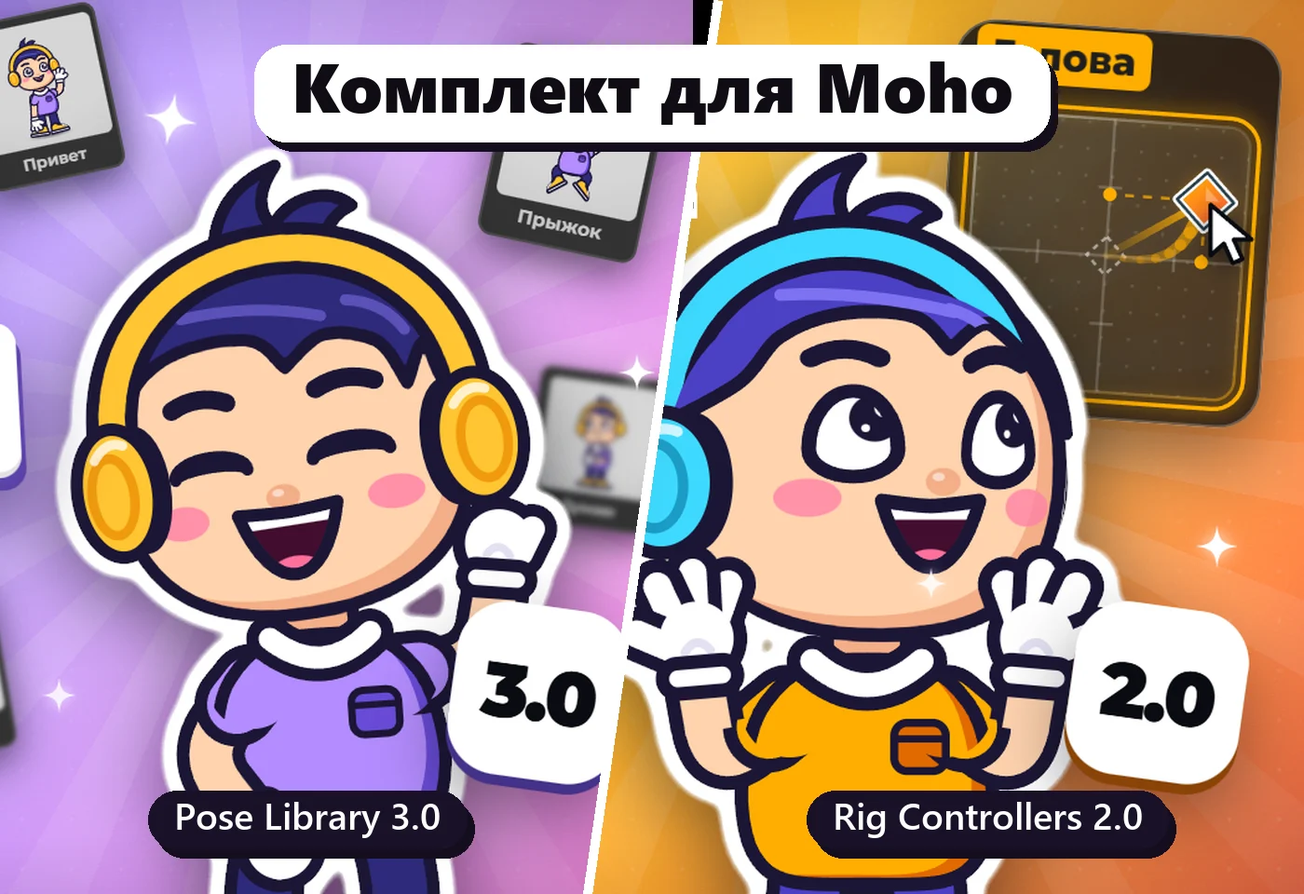
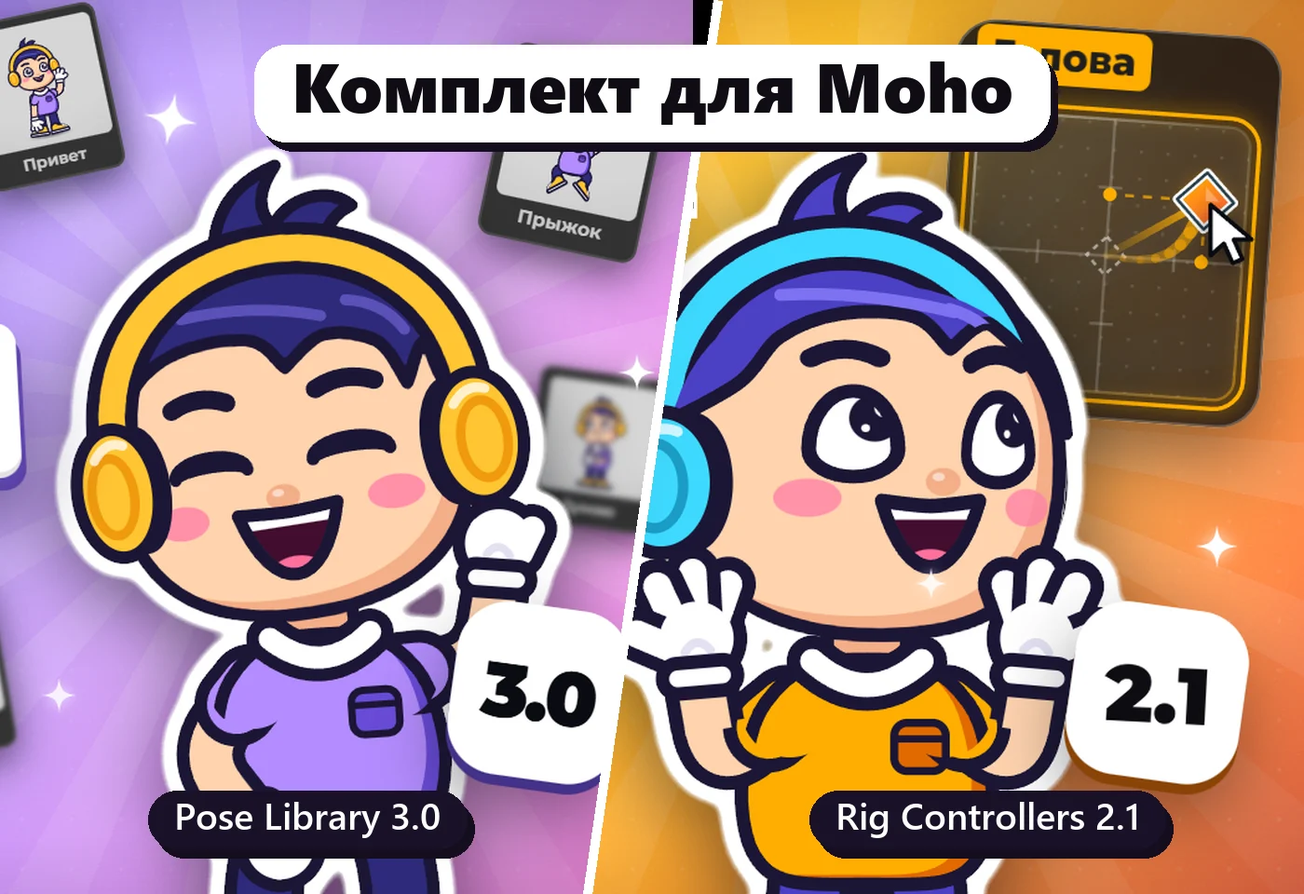
Rig Controllers 2.1 on the site
Card, details sheet and bundle show version 2.1.0 (2026-10-25) with the
release notes, update steps and RU/EN update guides; buyers get both 2.1
and 2.0. Covers carry the 2.1 badge; the home ticker announces the update.

Changed region(s): [[0.6143, 0.875, 0.8907, 0.9688], [0.8293, 0.75, 0.9521, 0.8125]]

diff --git a/assets/js/details.js b/assets/js/details.js
@@ -34,28 +34,34 @@ window.DETAILS = {
   },
 
   'rig-controllers': {
-    name: 'Rig Controllers', version: '2.0', accent: '#ffb547', pro: true, video: '9efL1hT4iKk',
+    name: 'Rig Controllers', version: '2.1', accent: '#ffb547', pro: true, video: '9efL1hT4iKk',
     image: '/assets/img/work/rig-promo.webp',
     gallery: ['/assets/img/work/rig-flow.webp', '/assets/img/work/rig-face.webp', '/assets/img/work/rig-moho.webp', '/assets/img/work/rig-tutorial.webp'],
     links: [
       { href: 'https://boosty.to/malikjan/posts/858f3017-0f50-4b08-a160-c6508677a88b', icon: 'heart', primary: true, ru: 'Купить на Boosty · $15', en: 'Buy on Boosty · $15' },
       { href: 'https://boosty.to/malikjan/posts/e7882a09-32d4-4024-b8e4-2e66bbfc6201', icon: 'heart', ru: 'Комплект с Pose Library · $19', en: 'Bundle with Pose Library · $19' },
       { href: 'https://youtu.be/9efL1hT4iKk', icon: 'youtube', ru: 'Урок на YouTube', en: 'Tutorial on YouTube' },
+      { href: '/assets/docs/rig-controllers-2.1-update-ru.txt', icon: 'site', ru: 'Как обновиться · RU', en: 'Update guide · RU' },
+      { href: '/assets/docs/rig-controllers-2.1-update-en.txt', icon: 'site', ru: 'Update guide · EN', en: 'Update guide · EN' },
     ],
     ru: {
-      kind: 'Плагин · Moho Pro 14.4', status: 'PRO · $15',
+      kind: 'Плагин · Moho Pro 14.4', status: 'PRO · $15 · обновление 2.1',
       short: 'Один жест. Две оси.',
-      desc: ['XY-джойстики и ползунки прямо поверх костного слоя. Контроллер двигает кости-драйверы, а они запускают Smart Bone Actions: поворот головы, эмоции, моргание и рот — одним движением на холсте.', 'Ключи пишутся в обычные каналы и видны на Timeline. Риги версии 1.x открываются без конвертации.'],
-      meta: [['Платформа', 'Moho Pro 14.4 · Windows'], ['Версия', '2.0'], ['Цена', '$15 · на Boosty'], ['Языки', 'Русский · English']],
+      desc: ['XY-джойстики и ползунки прямо поверх костного слоя. Контроллер двигает кости-драйверы, а они запускают Smart Bone Actions: поворот головы, эмоции, моргание и рот — одним движением на холсте.', 'Версия 2.1 (25 октября 2026): ромбик контроллера стал настоящей костью Moho, появились группы контроллеров, кости-драйверы скрыты, а старые риги обновляются одной командой.', 'В покупку входят обе версии — новая 2.1 и предыдущая 2.0, каждая на русском и английском. Ставь одну редакцию: они совместимы.'],
+      meta: [['Платформа', 'Moho Pro 14.4 · Windows'], ['Версия', '2.1.0 · 25.10.2026'], ['Цена', '$15 · на Boosty'], ['В покупке', '2.1 и 2.0 · RU + EN']],
+      blocks: [['Что нового в 2.1', ["Ромбик контроллера теперь настоящая кость Moho (точка-кость нулевой длины). Ключи анимации — ключи её перемещения на Timeline: их можно двигать, копировать, удалять и менять интерполяцию штатными инструментами Moho.", "Выделенный контроллер красный — как выделенная кость Moho.", "Кости-драйверы служебные и всегда скрыты: на холсте остаются только ромбики. Их ключи строятся автоматически из ключей ромбика, поэтому файлы воспроизводятся и рендерятся даже без установленного плагина.", "Группы контроллеров (Head, Body, Hands…): на холсте только контроллеры выбранной группы. Компактные кнопки: новая группа, в группу, из группы, переименовать, удалить. Ctrl+A — выбрать всю группу.", "Обновление ригов из версий 1.x–2.0 одной командой: вся анимация переносится на новые ромбики (те же кадры, значения и интерполяция; отменяется одним Ctrl+Z).", "Исправлено: при скрытых костях-драйверах ключи контроллера не были видны на Timeline."]], ['Как обновиться с 2.0', ["Сохраните проекты и закройте Moho", "Распакуйте архив 2.1", "Moho: Scripts → Install Script… → выберите папку scripts → на вопрос о замене ответьте «Да»", "Закройте и снова запустите Moho", "Старые риги работают как раньше; чтобы перевести их на ромбики: Smart Bones → «Обновить контроллеры до 2.1 (кости-ромбики)» на каждом слое с контроллерами, затем сохраните проект"], true]],
+      note: 'Проекты, обновлённые до 2.1, открываются и в старых версиях плагина, но там ромбики — обычные кости, а группы не видны. Обновите плагин на всех компьютерах, где работаете с проектом.',
       features: [['Джойстики и ползунки', 'XY, горизонтальные и вертикальные'], ['Smart Bone Actions', 'Action X+ / X− / Y+ / Y− из меню'], ['Точность и привязка', 'Shift — 15 %, Ctrl — к 0 / ±50 / ±100 %'], ['Диагональные коррекции', 'Правка смешанных поз для XY'], ['Бережно к ригу', 'Del никогда не удаляет кости, один Undo на жест'], ['Быстро на больших ригах', 'Кэш настроек, оверлей не мешает воспроизведению'], ['Связка с Pose Library', 'Кнопка «Позы» открывает библиотеку'], ['Примеры в комплекте', 'Готовые риги 1.1–1.5 для изучения']],
       stepsTitle: 'Как это работает',
       steps: ['Кадр 0, Mainline: выбери костный слой → «Новый»', 'Smart Bones → Action X+ … — поставь позу на последнем кадре', 'Кадры 1+: тяни ромб — ключи пишутся сами'],
     },
     en: {
-      kind: 'Plugin · Moho Pro 14.4', status: 'PRO · $15',
+      kind: 'Plugin · Moho Pro 14.4', status: 'PRO · $15 · update 2.1',
       short: 'One gesture. Two axes.',
-      desc: ['XY joysticks and sliders drawn right over the bone layer. A controller moves driver bones, which trigger Smart Bone Actions: head turns, emotions, blinks and mouth shapes in a single move on the canvas.', 'Keys go into regular channels and show on the Timeline. 1.x rigs open without conversion.'],
-      meta: [['Platform', 'Moho Pro 14.4 · Windows'], ['Version', '2.0'], ['Price', '$15 · on Boosty'], ['Languages', 'Russian · English']],
+      desc: ['XY joysticks and sliders drawn right over the bone layer. A controller moves driver bones, which trigger Smart Bone Actions: head turns, emotions, blinks and mouth shapes in a single move on the canvas.', 'Version 2.1 (25 October 2026): the controller diamond is now a real Moho bone, controller groups arrive, driver bones are hidden and old rigs upgrade with one command.', 'The purchase includes both versions — the new 2.1 and the previous 2.0, each in Russian and English. Install one edition: they are compatible.'],
+      meta: [['Platform', 'Moho Pro 14.4 · Windows'], ['Version', '2.1.0 · 2026-10-25'], ['Price', '$15 · on Boosty'], ['In the purchase', '2.1 and 2.0 · RU + EN']],
+      blocks: [["What's new in 2.1", ["The controller diamond is now a real Moho bone (a zero-length point bone). Animation keys are its translation keys on the Timeline — move, copy and delete them and change their interpolation with Moho's standard tools.", "A selected controller is red, just like a selected Moho bone.", "Driver bones are internal and always hidden, so only the diamonds stay on the canvas. Their keys are built automatically from the diamond's keys, so your files play and render even without the plugin installed.", "Controller groups (Head, Body, Hands…): show only the controllers of the chosen group. Compact buttons: new group, add to group, remove from group, rename, delete. Ctrl+A selects the whole group.", "One-click upgrade for rigs made with versions 1.x–2.0: the whole animation moves onto the new diamonds (same frames, values and interpolation; one Ctrl+Z undoes it).", "Fixed: with hidden driver bones, a controller's keys were not visible on the Timeline."]], ['How to update from 2.0', ["Save your projects and quit Moho", "Unpack the 2.1 archive", "Moho: Scripts → Install Script… → choose the scripts folder → answer «Yes» to replacing files", "Quit and restart Moho", "Old rigs keep working; to move them to the new diamond bones use Smart Bones → «Upgrade Controllers to 2.1 (Control Bones)» on each controller layer, then save"], true]],
+      note: 'Projects upgraded to 2.1 still open in older plugin versions, but there the diamonds are plain bones and groups are not shown. Update the plugin on every computer you work on the project with.',
       features: [['Joysticks & sliders', 'XY, horizontal and vertical'], ['Smart Bone Actions', 'Action X+ / X− / Y+ / Y− from the menu'], ['Precision & snapping', 'Shift — 15 %, Ctrl — to 0 / ±50 / ±100 %'], ['Diagonal corrections', 'Fix blended poses on XY'], ['Safe for your rig', 'Del never deletes bones, one Undo per gesture'], ['Fast on big rigs', 'Cached settings, no overlay during playback'], ['Works with Pose Library', 'The «Poses» button opens the library'], ['Example rigs included', 'Rigs 1.1–1.5 to learn from']],
       stepsTitle: 'How it works',
       steps: ['Frame 0, Mainline: pick the bone layer → «New»', 'Smart Bones → Action X+ … — pose the last frame', 'Frames 1+: drag the handle — keys are written for you'],

diff --git a/plugins/index.html b/plugins/index.html
@@ -109,38 +109,38 @@
           <article class="pcard">
             <button class="pcard__cover" type="button" data-detail="rig-controllers" data-cursor="OPEN">
               <span class="chip chip--paid"><i></i>PRO · $15</span>
-              <img src="/assets/img/work/rig-promo.webp" alt="Rig Controllers 2.0" loading="lazy">
+              <img src="/assets/img/work/rig-promo.webp" alt="Rig Controllers 2.1" loading="lazy">
             </button>
             <div class="pcard__body">
-              <div class="pcard__top"><span class="pcard__kind">Moho · Lua</span><span class="chip chip--plain" data-en="Release 2.0">Релиз 2.0</span></div>
-              <h3 class="pcard__name">Rig Controllers<sup>2.0</sup></h3>
-              <p class="pcard__text" data-en="One gesture — two axes: XY joysticks and sliders right over the bone layer drive Smart Bones. Example rigs included.">Один жест — две оси: XY-джойстики и ползунки прямо поверх костного слоя управляют Smart Bones. Примеры ригов в комплекте.</p>
+              <div class="pcard__top"><span class="pcard__kind">Moho · Lua</span><span class="chip chip--new" data-en="Update 2.1">Обновление 2.1</span></div>
+              <h3 class="pcard__name">Rig Controllers<sup>2.1</sup></h3>
+              <p class="pcard__text" data-en="One gesture — two axes: XY joysticks and sliders right over the bone layer drive Smart Bones. New in 2.1: diamonds are real Moho bones, controller groups and a one-click upgrade for old rigs.">Один жест — две оси: XY-джойстики и ползунки прямо поверх костного слоя управляют Smart Bones. Новое в 2.1: ромбики — настоящие кости Moho, группы контроллеров и обновление старых ригов одной командой.</p>
               <div class="pcard__actions">
                 <a class="btn btn--primary btn--warn" href="https://boosty.to/malikjan/posts/858f3017-0f50-4b08-a160-c6508677a88b" target="_blank" rel="noopener" data-magnetic><svg viewBox="0 0 24 24" fill="none" stroke="currentColor" stroke-width="1.8" stroke-linejoin="round"><path d="M12 20s-7-4.4-7-10a4 4 0 0 1 7-2.6A4 4 0 0 1 19 10c0 5.6-7 10-7 10z"/></svg><span data-en="Buy on Boosty · $15">Купить на Boosty · $15</span></a>
                 <a class="btn btn--yt" href="https://youtu.be/9efL1hT4iKk" target="_blank" rel="noopener"><svg viewBox="0 0 24 24" fill="currentColor"><path d="M7 4.5v15l13-7.5z"/></svg><span>YouTube</span></a>
                 <button class="btn btn--ghost" type="button" data-detail="rig-controllers"><span data-en="Details">Подробнее</span></button>
               </div>
-              <p class="pcard__fine" data-en="RU and EN editions inside. Both plugins together — <a href=&quot;https://boosty.to/malikjan/posts/e7882a09-32d4-4024-b8e4-2e66bbfc6201&quot; target=&quot;_blank&quot; rel=&quot;noopener&quot;>bundle for $19</a>.">Внутри RU и EN версии. Оба плагина вместе — <a href="https://boosty.to/malikjan/posts/e7882a09-32d4-4024-b8e4-2e66bbfc6201" target="_blank" rel="noopener">комплект за $19</a>.</p>
+              <p class="pcard__fine" data-en="Both versions in the purchase — 2.1 and 2.0, in Russian and English. Both plugins together — <a href=&quot;https://boosty.to/malikjan/posts/e7882a09-32d4-4024-b8e4-2e66bbfc6201&quot; target=&quot;_blank&quot; rel=&quot;noopener&quot;>bundle for $19</a>.">В покупке обе версии — 2.1 и 2.0, на русском и английском. Оба плагина вместе — <a href="https://boosty.to/malikjan/posts/e7882a09-32d4-4024-b8e4-2e66bbfc6201" target="_blank" rel="noopener">комплект за $19</a>.</p>
             </div>
           </article>
 
           <article class="pcard pcard--wide" id="moho-bundle">
             <a class="pcard__cover" href="https://boosty.to/malikjan/posts/e7882a09-32d4-4024-b8e4-2e66bbfc6201" target="_blank" rel="noopener" data-cursor="BUY">
               <span class="chip chip--paid"><i></i><span data-en="Bundle · $19 instead of $25">Комплект · $19 вместо $25</span></span>
-              <img src="/assets/img/work/moho-bundle.webp" alt="Pose Library 3.0 + Rig Controllers 2.0" loading="lazy">
+              <img src="/assets/img/work/moho-bundle.webp" alt="Pose Library 3.0 + Rig Controllers 2.1" loading="lazy">
             </a>
             <div class="pcard__body">
               <div class="pcard__top"><span class="pcard__kind">Moho · Lua · 2 <span data-en="plugins">плагина</span></span><span class="chip chip--plain" data-en="Save $6">Выгода $6</span></div>
               <h3 class="pcard__name" data-en="Moho bundle">Комплект для Moho</h3>
-              <p class="pcard__text" data-en="Pose Library 3.0 + Rig Controllers 2.0 in one purchase. They work together: the «Poses» button in Rig Controllers opens the pose library. Joysticks drive the face and head, the library keeps the poses — a whole character animation workflow inside Moho.">Pose Library 3.0 + Rig Controllers 2.0 одной покупкой. Они работают в паре: кнопка «Позы» в Rig Controllers открывает библиотеку поз. Джойстики управляют лицом и головой, библиотека хранит позы — весь процесс анимации персонажа прямо в Moho.</p>
+              <p class="pcard__text" data-en="Pose Library 3.0 + Rig Controllers 2.1 (and 2.0) in one purchase. They work together: the «Poses» button in Rig Controllers opens the pose library. Joysticks drive the face and head, the library keeps the poses — a whole character animation workflow inside Moho.">Pose Library 3.0 + Rig Controllers 2.1 (и 2.0) одной покупкой. Они работают в паре: кнопка «Позы» в Rig Controllers открывает библиотеку поз. Джойстики управляют лицом и головой, библиотека хранит позы — весь процесс анимации персонажа прямо в Moho.</p>
               <ul class="pcard__list">
                 <li><b>Pose Library 3.0</b> <span data-en="— poses in one click">— позы в один клик</span> <s>$10</s></li>
-                <li><b>Rig Controllers 2.0</b> <span data-en="— one gesture, two axes">— один жест, две оси</span> <s>$15</s></li>
+                <li><b>Rig Controllers 2.1</b> <span data-en="— one gesture, two axes">— один жест, две оси</span> <s>$15</s></li>
               </ul>
               <div class="pcard__actions">
                 <a class="btn btn--primary btn--warn" href="https://boosty.to/malikjan/posts/e7882a09-32d4-4024-b8e4-2e66bbfc6201" target="_blank" rel="noopener" data-magnetic><svg viewBox="0 0 24 24" fill="none" stroke="currentColor" stroke-width="1.8" stroke-linejoin="round"><path d="M12 20s-7-4.4-7-10a4 4 0 0 1 7-2.6A4 4 0 0 1 19 10c0 5.6-7 10-7 10z"/></svg><span data-en="Buy the bundle · $19">Купить комплект · $19</span></a>
               </div>
-              <p class="pcard__fine" data-en="4 archives inside: RU and EN editions of each plugin. Pay on Boosty — the files open right after purchase.">Внутри 4 архива: RU и EN версии каждого плагина. Оплата на Boosty — файлы откроются сразу после покупки.</p>
+              <p class="pcard__fine" data-en="6 archives inside: Pose Library 3.0, Rig Controllers 2.1 and 2.0 — RU and EN editions of each. Pay on Boosty — the files open right after purchase.">Внутри 6 архивов: Pose Library 3.0, Rig Controllers 2.1 и 2.0 — у каждого RU и EN версии. Оплата на Boosty — файлы откроются сразу после покупки.</p>
             </div>
           </article>
 

diff --git a/index.html b/index.html
@@ -123,8 +123,8 @@
     <!-- ============ NEWS ticker ============ -->
     <div class="ticker" aria-label="Новости" data-en-label="News">
       <div class="ticker__track">
-        <div class="ticker__row"><a class="ticker__item" href="/software/pix/"><b class="mono" data-en="New">Новое</b><span data-en="Pix — a new 2D animation app">Pix — новая программа для 2D-анимации</span><i aria-hidden="true">✦</i></a><a class="ticker__item" href="/software/cubi/"><b class="mono" data-en="New · free">Новинка</b><span data-en="CUBI — an island launcher for Windows 11">CUBI — лаунчер-остров для Windows 11</span><i aria-hidden="true">✦</i></a><a class="ticker__item" href="/plugins/#moho-bundle"><b class="mono" data-en="Deal">Скидка</b><span data-en="Pose Library + Rig Controllers — $19 instead of $25">Pose Library + Rig Controllers — $19 вместо $25</span><i aria-hidden="true">✦</i></a><a class="ticker__item" href="/plugins/"><b class="mono" data-en="Moho">Moho</b><span data-en="TGS Exporter — Telegram stickers right from Moho">TGS Exporter — стикеры Telegram прямо из Moho</span><i aria-hidden="true">✦</i></a><a class="ticker__item" href="/plugins/"><b class="mono" data-en="Free">Бесплатно</b><span data-en="Show All Layers — every Moho layer in one click">Show All Layers — все слои Moho в один клик</span><i aria-hidden="true">✦</i></a></div>
-        <div class="ticker__row" aria-hidden="true"><a class="ticker__item" href="/software/pix/" tabindex="-1"><b class="mono" data-en="New">Новое</b><span data-en="Pix — a new 2D animation app">Pix — новая программа для 2D-анимации</span><i aria-hidden="true">✦</i></a><a class="ticker__item" href="/software/cubi/" tabindex="-1"><b class="mono" data-en="New · free">Новинка</b><span data-en="CUBI — an island launcher for Windows 11">CUBI — лаунчер-остров для Windows 11</span><i aria-hidden="true">✦</i></a><a class="ticker__item" href="/plugins/#moho-bundle" tabindex="-1"><b class="mono" data-en="Deal">Скидка</b><span data-en="Pose Library + Rig Controllers — $19 instead of $25">Pose Library + Rig Controllers — $19 вместо $25</span><i aria-hidden="true">✦</i></a><a class="ticker__item" href="/plugins/" tabindex="-1"><b class="mono" data-en="Moho">Moho</b><span data-en="TGS Exporter — Telegram stickers right from Moho">TGS Exporter — стикеры Telegram прямо из Moho</span><i aria-hidden="true">✦</i></a><a class="ticker__item" href="/plugins/" tabindex="-1"><b class="mono" data-en="Free">Бесплатно</b><span data-en="Show All Layers — every Moho layer in one click">Show All Layers — все слои Moho в один клик</span><i aria-hidden="true">✦</i></a></div>
+        <div class="ticker__row"><a class="ticker__item" href="/plugins/"><b class="mono" data-en="Update">Обновление</b><span data-en="Rig Controllers 2.1 — diamonds became real Moho bones, controller groups">Rig Controllers 2.1 — ромбики стали костями Moho, группы контроллеров</span><i aria-hidden="true">✦</i></a><a class="ticker__item" href="/software/pix/"><b class="mono" data-en="New">Новое</b><span data-en="Pix — a new 2D animation app">Pix — новая программа для 2D-анимации</span><i aria-hidden="true">✦</i></a><a class="ticker__item" href="/software/cubi/"><b class="mono" data-en="New · free">Новинка</b><span data-en="CUBI — an island launcher for Windows 11">CUBI — лаунчер-остров для Windows 11</span><i aria-hidden="true">✦</i></a><a class="ticker__item" href="/plugins/#moho-bundle"><b class="mono" data-en="Deal">Скидка</b><span data-en="Pose Library + Rig Controllers — $19 instead of $25">Pose Library + Rig Controllers — $19 вместо $25</span><i aria-hidden="true">✦</i></a><a class="ticker__item" href="/plugins/"><b class="mono" data-en="Moho">Moho</b><span data-en="TGS Exporter — Telegram stickers right from Moho">TGS Exporter — стикеры Telegram прямо из Moho</span><i aria-hidden="true">✦</i></a><a class="ticker__item" href="/plugins/"><b class="mono" data-en="Free">Бесплатно</b><span data-en="Show All Layers — every Moho layer in one click">Show All Layers — все слои Moho в один клик</span><i aria-hidden="true">✦</i></a></div>
+        <div class="ticker__row" aria-hidden="true"><a class="ticker__item" href="/plugins/" tabindex="-1"><b class="mono" data-en="Update">Обновление</b><span data-en="Rig Controllers 2.1 — diamonds became real Moho bones, controller groups">Rig Controllers 2.1 — ромбики стали костями Moho, группы контроллеров</span><i aria-hidden="true">✦</i></a><a class="ticker__item" href="/software/pix/" tabindex="-1"><b class="mono" data-en="New">Новое</b><span data-en="Pix — a new 2D animation app">Pix — новая программа для 2D-анимации</span><i aria-hidden="true">✦</i></a><a class="ticker__item" href="/software/cubi/" tabindex="-1"><b class="mono" data-en="New · free">Новинка</b><span data-en="CUBI — an island launcher for Windows 11">CUBI — лаунчер-остров для Windows 11</span><i aria-hidden="true">✦</i></a><a class="ticker__item" href="/plugins/#moho-bundle" tabindex="-1"><b class="mono" data-en="Deal">Скидка</b><span data-en="Pose Library + Rig Controllers — $19 instead of $25">Pose Library + Rig Controllers — $19 вместо $25</span><i aria-hidden="true">✦</i></a><a class="ticker__item" href="/plugins/" tabindex="-1"><b class="mono" data-en="Moho">Moho</b><span data-en="TGS Exporter — Telegram stickers right from Moho">TGS Exporter — стикеры Telegram прямо из Moho</span><i aria-hidden="true">✦</i></a><a class="ticker__item" href="/plugins/" tabindex="-1"><b class="mono" data-en="Free">Бесплатно</b><span data-en="Show All Layers — every Moho layer in one click">Show All Layers — все слои Moho в один клик</span><i aria-hidden="true">✦</i></a></div>
       </div>
     </div>
 
@@ -181,7 +181,7 @@
             <div class="news__copy">
               <div class="news__chips"><span class="news__chip mono"><i></i><span data-en="Deal · Moho">Скидка · Moho</span></span></div>
               <h3 class="news__name news__name--deal"><span data-en="2 plugins">2 плагина</span> <span class="news__price"><s>$25</s><b>$19</b></span></h3>
-              <p class="news__text" data-en="Pose Library 3.0 + Rig Controllers 2.0 in one purchase: joysticks drive the face, the library keeps the poses. RU and EN editions inside.">Pose Library 3.0 + Rig Controllers 2.0 одной покупкой: джойстики управляют лицом, библиотека хранит позы. Внутри RU и EN версии.</p>
+              <p class="news__text" data-en="Pose Library 3.0 + Rig Controllers 2.1 in one purchase: joysticks drive the face, the library keeps the poses. RU and EN editions inside.">Pose Library 3.0 + Rig Controllers 2.1 одной покупкой: джойстики управляют лицом, библиотека хранит позы. Внутри RU и EN версии.</p>
               <div class="news__cta">
                 <a class="btn news__btn news__btn--warn" href="https://boosty.to/malikjan/posts/e7882a09-32d4-4024-b8e4-2e66bbfc6201" target="_blank" rel="noopener" data-magnetic><svg viewBox="0 0 24 24" fill="none" stroke="currentColor" stroke-width="1.8" stroke-linejoin="round"><path d="M12 20s-7-4.4-7-10a4 4 0 0 1 7-2.6A4 4 0 0 1 19 10c0 5.6-7 10-7 10z"/></svg><span data-en="Buy the bundle · $19">Купить комплект · $19</span></a>
                 <a class="btn btn--ghost" href="/plugins/#moho-bundle"><span data-en="Details">Подробнее</span></a>

diff --git a/assets/js/main.js b/assets/js/main.js
@@ -375,6 +375,8 @@
       : '';
     const meta = `<dl class="dt__meta">${t.meta.map(([k, v]) => `<div><dt>${esc(k)}</dt><dd>${esc(v)}</dd></div>`).join('')}</dl>`;
     const feats = `<h3 class="dt__h">${lang === 'en' ? 'Features' : 'Возможности'}</h3><ul class="dt__features">${t.features.map(([b, s]) => `<li><b>${esc(b)}</b>${esc(s)}</li>`).join('')}</ul>`;
+    // Optional extra sections: [title, items, ordered?] — e.g. release notes and update steps.
+    const blocks = (t.blocks || []).map(([title, items, ordered]) => `<h3 class="dt__h">${esc(title)}</h3><${ordered ? 'ol class="dt__steps"' : 'ul class="dt__news"'}>${items.map((i) => `<li>${esc(i)}</li>`).join('')}</${ordered ? 'ol' : 'ul'}>`).join('');
     const steps = t.steps ? `<h3 class="dt__h">${esc(t.stepsTitle)}</h3><ol class="dt__steps">${t.steps.map((s) => `<li>${esc(s)}</li>`).join('')}</ol>` : '';
     const actions = (d.links || []).map((l) => {
       const ext = /^https?:/.test(l.href) && l.icon !== 'download' ? ' target="_blank" rel="noopener"' : '';
@@ -397,7 +399,7 @@
           <h2 class="dt__name" id="sheet-title">${esc(d.name)}<sup>${esc(d.version)}</sup></h2>
           <p class="dt__short">${esc(t.short)}</p>
           <div class="dt__desc">${t.desc.map((p) => `<p>${esc(p)}</p>`).join('')}</div>
-          ${meta}${feats}${steps}
+          ${meta}${blocks}${feats}${steps}
           <div class="dt__actions">${soon}${actions}</div>${d.dl ? `<p class="dlcount" data-dl-count="${esc(d.dl)}" hidden></p>` : ''}${note}
         </div>
       </div>`;

diff --git a/assets/css/main.css b/assets/css/main.css
@@ -1121,3 +1121,6 @@ button.tool { text-align: left; width: 100%; font: inherit; color: inherit; curs
 @keyframes dl-pulse { 50% { box-shadow: 0 0 0 7px transparent; } }
 .dt .dlcount { margin-top: 14px; }
 @media (prefers-reduced-motion: reduce) { .dlcount i { animation: none; } }
+.dt__news { list-style: none; margin: 0; padding: 0; display: grid; gap: 8px; }
+.dt__news li { position: relative; padding: 12px 14px 12px 38px; border-radius: 12px; background: color-mix(in srgb, var(--c) 6%, transparent); border: 1px solid color-mix(in srgb, var(--c) 18%, transparent); font-size: 13.5px; color: var(--ink-2); line-height: 1.5; }
+.dt__news li::before { content: "✦"; position: absolute; left: 14px; top: 12px; color: var(--c); font-size: 12px; }

diff --git a/assets/css/pages.css b/assets/css/pages.css
@@ -445,3 +445,4 @@
   .ticker__item { font-size: 14px; }
 }
 }
+.chip--new { border-color: rgba(255, 181, 71, 0.45); color: var(--warn); background: rgba(255, 181, 71, 0.08); }
